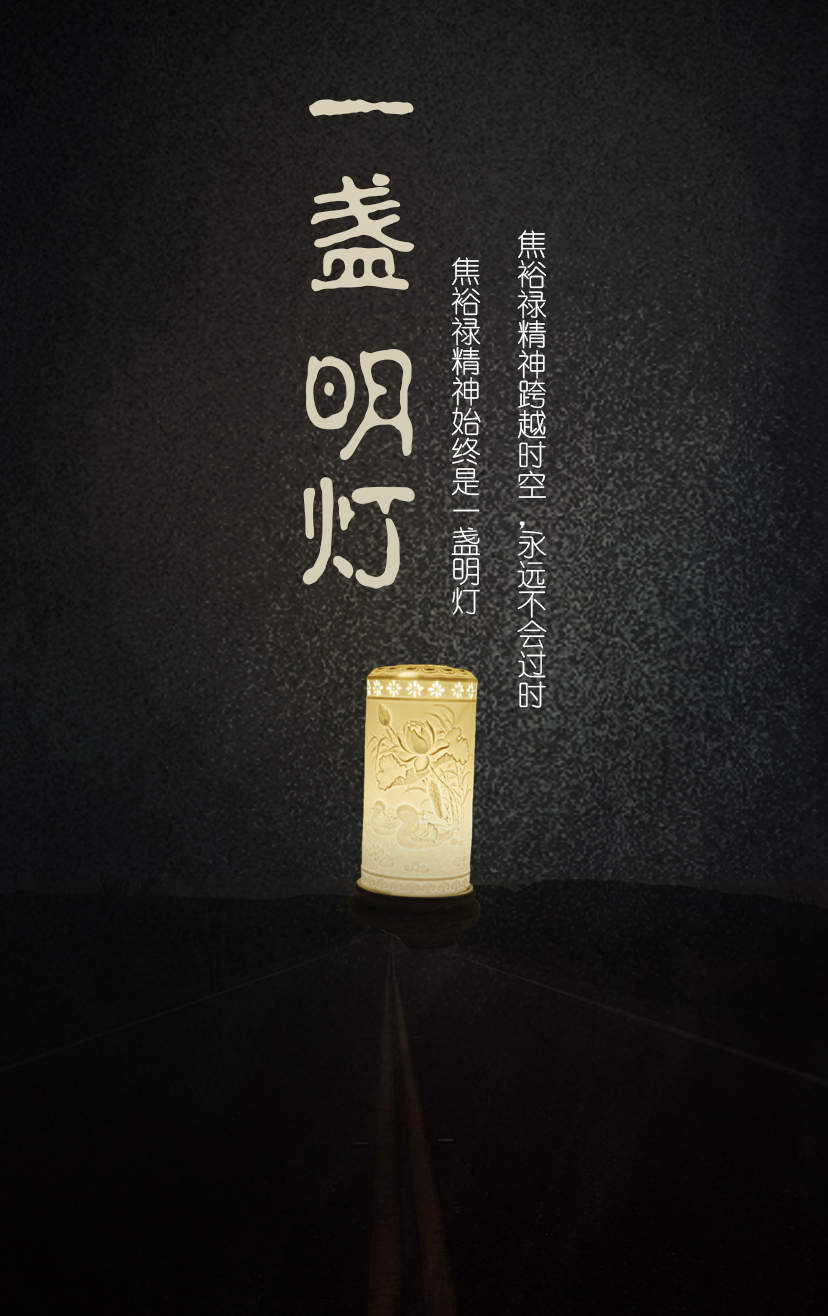
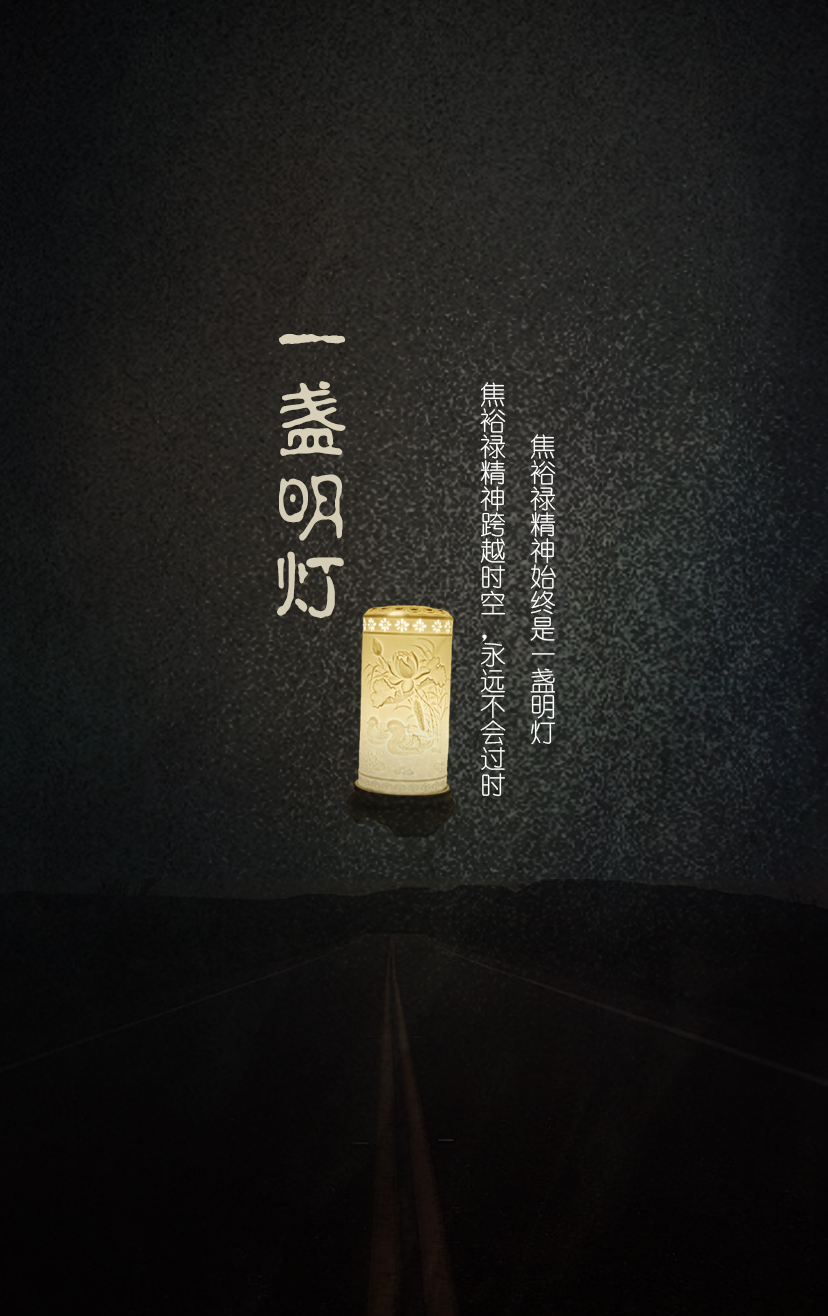
明灯页面以及介绍页面

Changed region(s): [[0.3321, 0.1558, 0.6643, 0.6854], [0.3623, 0.1246, 0.5133, 0.2181], [0.3623, 0.0623, 0.5133, 0.0935]]

diff --git a/config/routes.rb b/config/routes.rb
@@ -25,6 +25,7 @@ Rails.application.routes.draw do
     get '/activity', to: 'activity#index'
     get '/light', to: 'home#light'
     get '/lightRaise', to: 'home#light_raise'
+    get '/lightIntro', to: 'home#light_intro'
     post '/create_light', to: 'home#create_light'
     get '/light_order' ,to: 'home#light_order'
   end

diff --git a/app/controllers/wechat/home_controller.rb b/app/controllers/wechat/home_controller.rb
@@ -26,6 +26,10 @@ skip_before_filter :verify_authenticity_token
 
   end
 
+  def light_intro
+
+  end
+
   def create_light
 
     # 人民币
